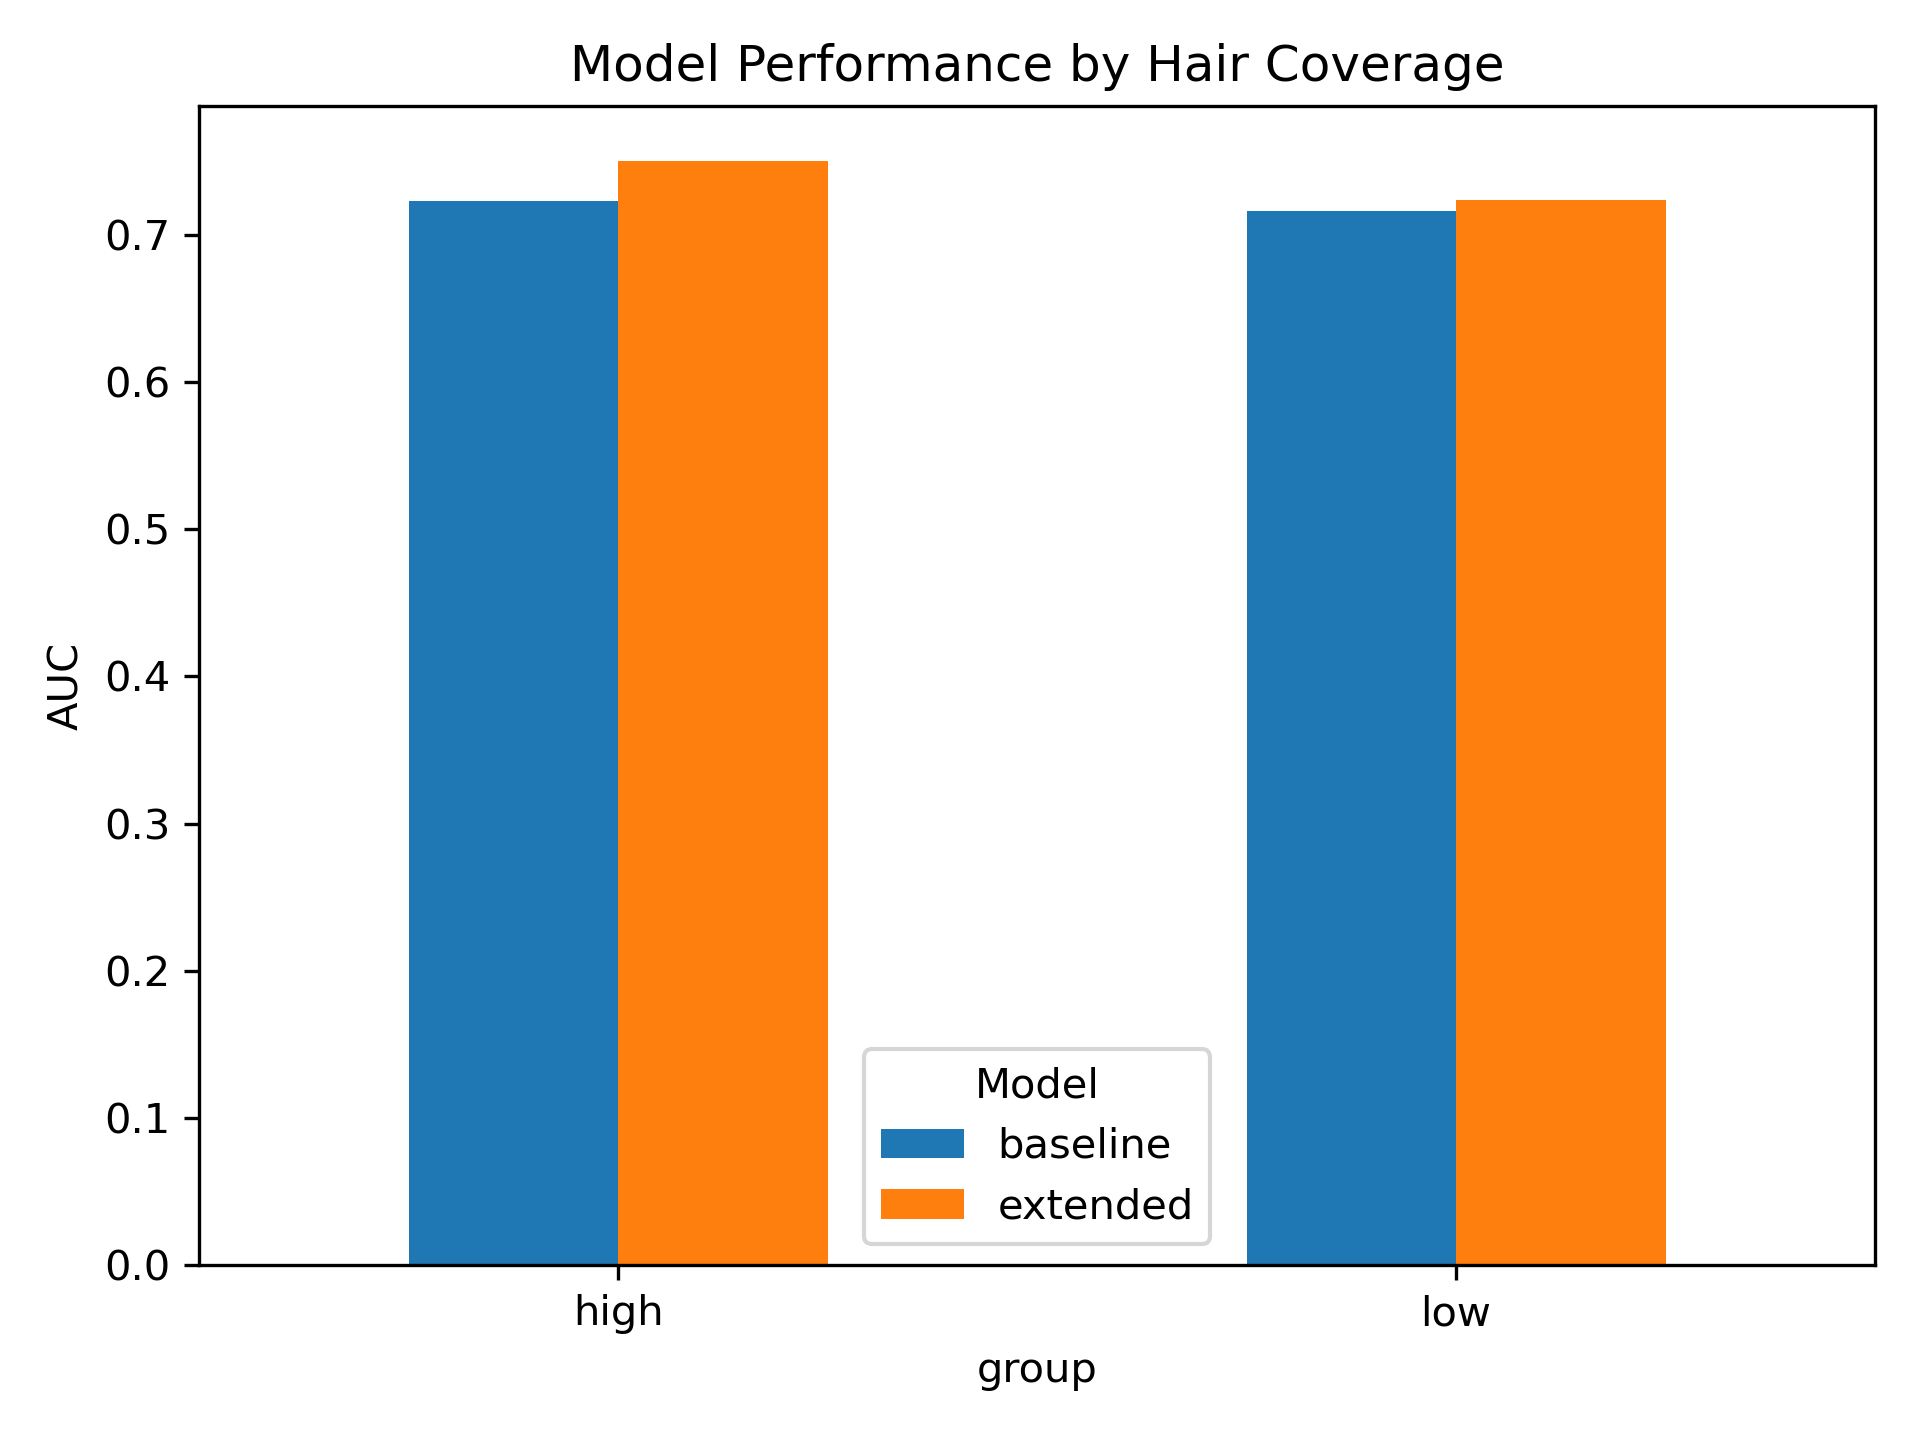
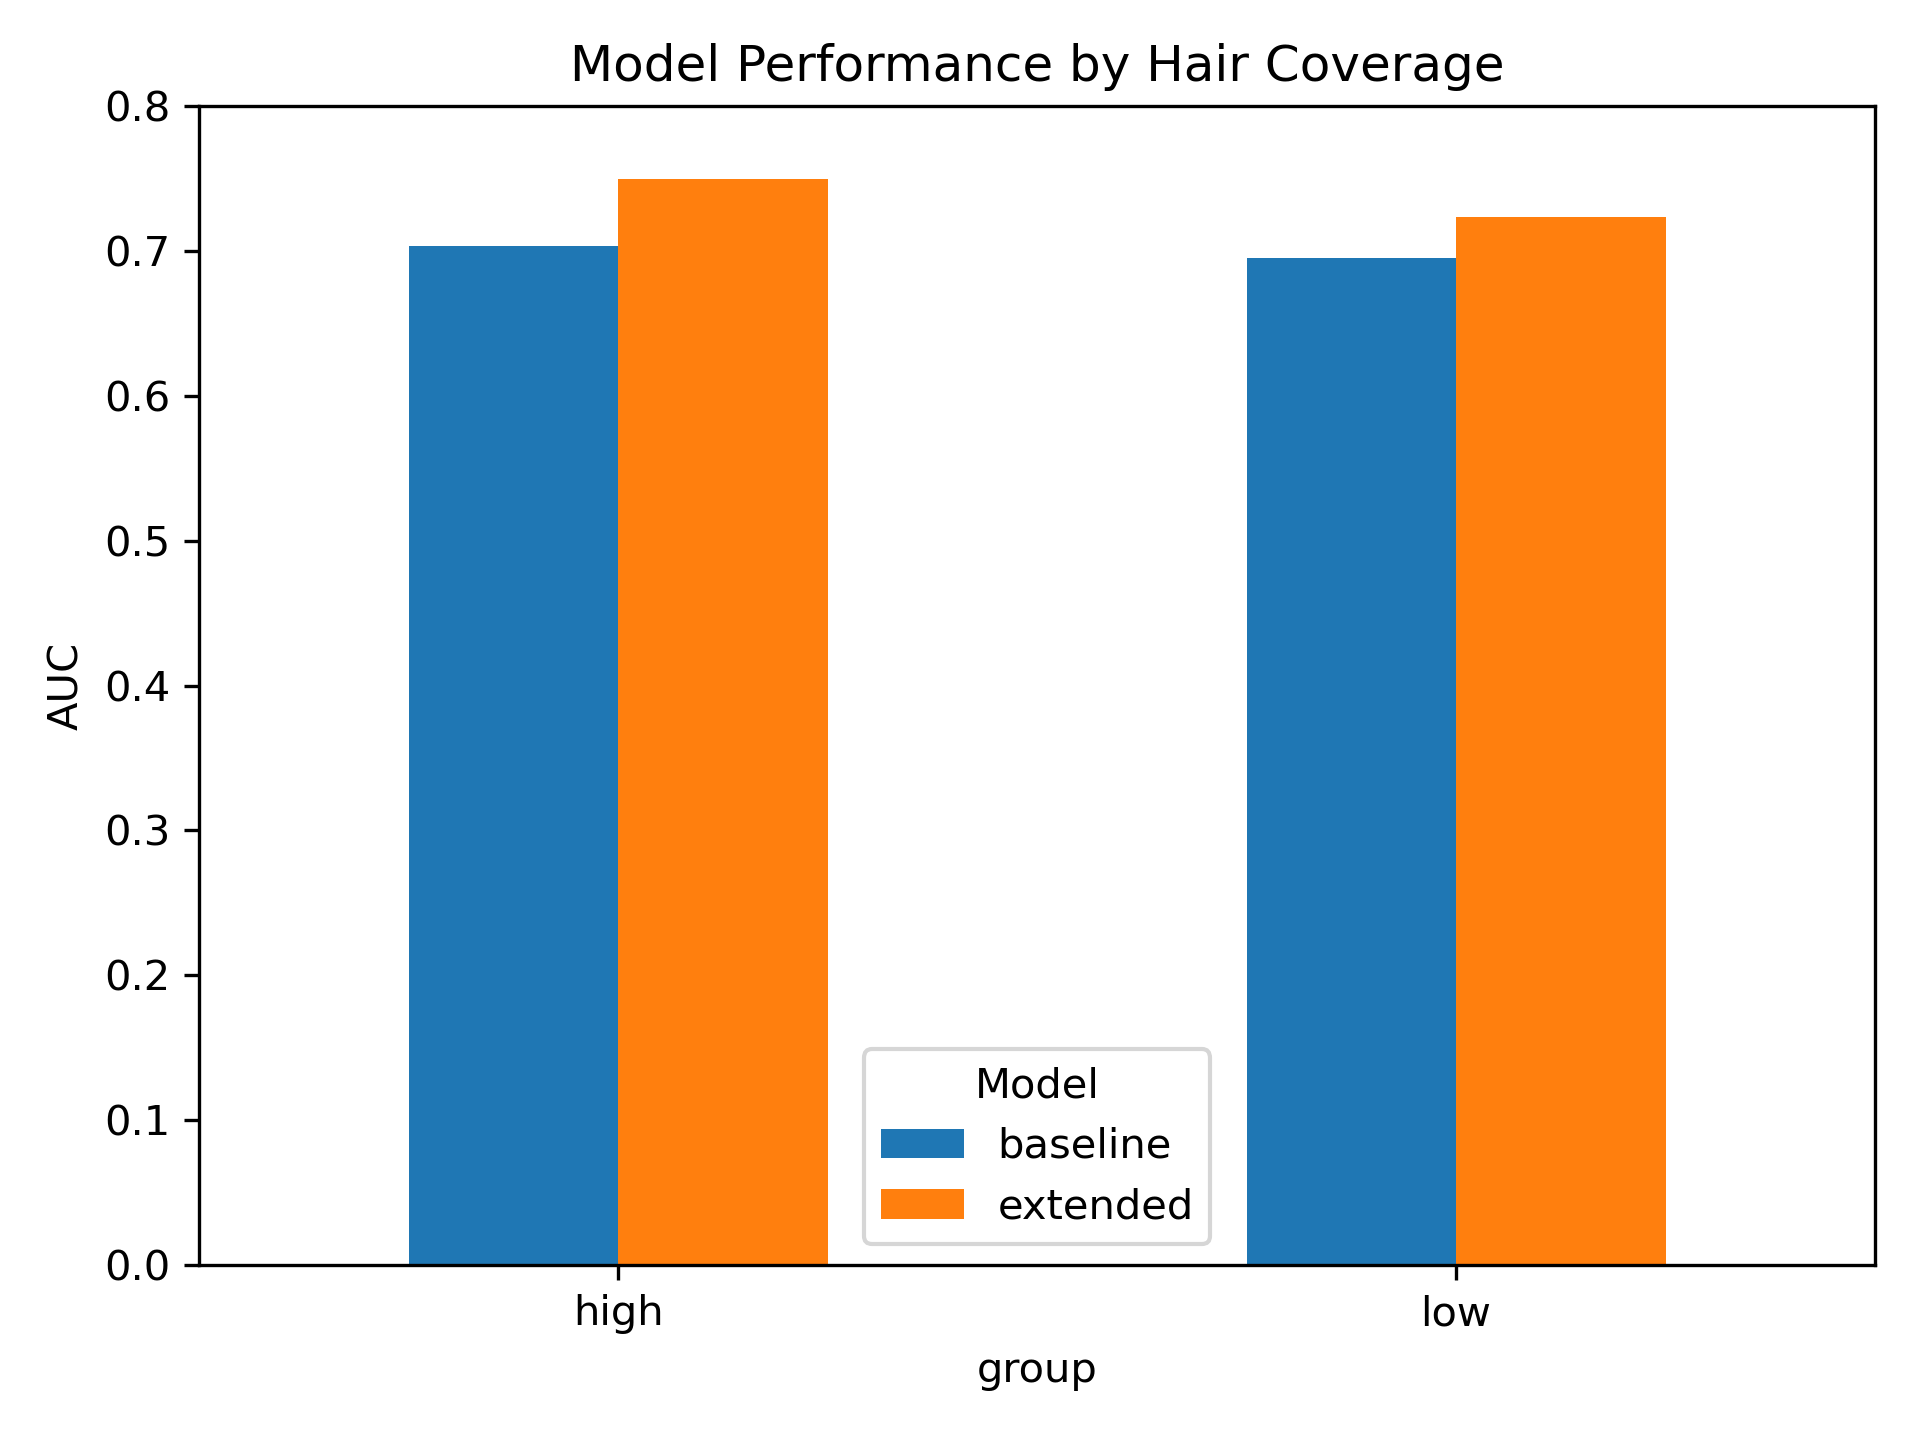
adjusted graph for open question

diff --git a/open_question_hair.py b/open_question_hair.py
@@ -24,8 +24,8 @@ from sklearn.metrics import (
 
 # Load data
 features = pd.read_csv("data/features_extended.csv")
-pred_base = pd.read_csv("results/predictions_baseline.csv")
-pred_ext = pd.read_csv("results/predictions_extended.csv")
+pred_base = pd.read_csv("results/predictions/predictions_baseline.csv")
+pred_ext = pd.read_csv("results/predictions/predictions_extended.csv")
 
 # Merge hair coverage with predictions
 hair = features[["img_id", "patient_id", "hair_coverage"]]
@@ -98,6 +98,7 @@ pivot.plot(kind="bar")
 plt.ylabel("AUC")
 plt.title("Model Performance by Hair Coverage")
 plt.xticks(rotation=0)
+plt.ylim(0, 0.8)
 plt.legend(title="Model")
 
 plt.tight_layout()